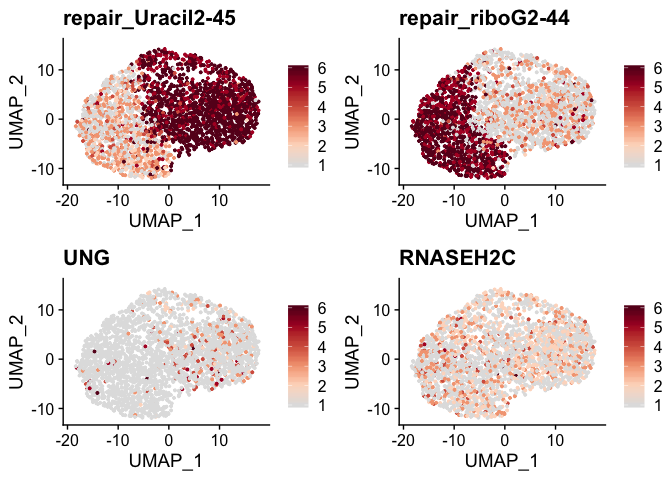
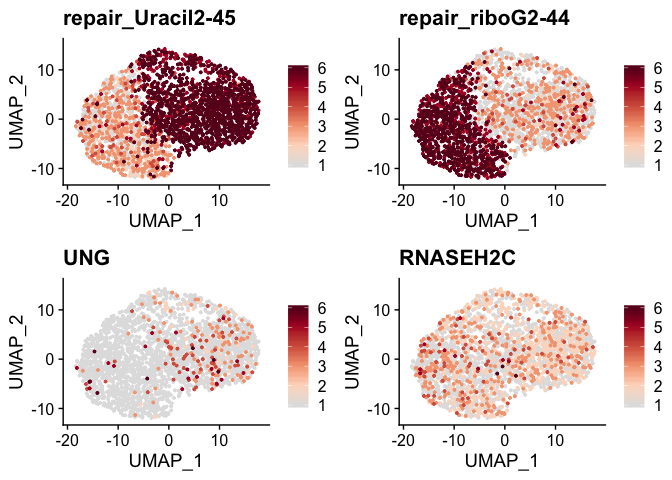
fix readme and add supp fig3

diff --git a/README.md b/README.md
@@ -12,8 +12,8 @@ single-cell mRNA sequencing experiment.
 
 Following GEM generation and reverse transcription, we isolate the DNA
 repair fragments from the mRNA by size separation. We then prepare a
-single-cell repair library that captures DNA repair products,
-intermediates, and products.
+single-cell repair library that captures DNA repair intermediates and
+products.
 
 <center>
 
@@ -91,19 +91,28 @@ df <- rownames_to_column(as.data.frame(t(as.matrix(GetAssayData(barnyard_seurat,
         mutate(position = as.double(position),
                count = as.double(count))
 
-
+# Add repair positions based on average signal
 repair_position = data_frame(hairpin = c('Uracil2', 'riboG2'),
                              repair_position = c(45, 44))
 
 df %>% left_join(repair_position) %>%
         filter(position == repair_position) -> rt
 
+# Get cutoffs to determine cell type by repair
+# Cutoff is > 5% of the maximum signal for each substrate
 rt %>% group_by(hairpin, position) %>%
         summarize(max_count = max(count)) %>%
         mutate(cut_off = round(max_count * .05)) -> cutoffs
 
+# Define ribo cutoff and uracil cutoff
 r = cutoffs$cut_off[1]
 u = cutoffs$cut_off[2]
+
+# Define cell types:
+# UNGKO = >5% maximum singal on ribo substrate and < 5% of the max on uracil substrate
+# RNASEH2CKO = >5% maximum singal on uracil substrate and < 5% of the max on ribo substrate
+# Both = >5% maximum singal on ribo substrate and >5% of the max on uracil substrate
+# Low signal = <5% maximum singal on ribo substrate and <5% of the max on uracil substrate
 
 rt %>% select(-position, -repair_position) %>% 
         spread(hairpin, count) %>%
@@ -116,6 +125,7 @@ rt %>% select(-position, -repair_position) %>%
 df <- left_join(df, color_df) %>%
         left_join(repair_position)
 
+# count number of cells in each category
 df %>% filter(hairpin == "Uracil2", 
                           position == 1) %>%
         group_by(color) %>%
@@ -123,10 +133,7 @@ df %>% filter(hairpin == "Uracil2",
         ungroup() %>%
         rename('Cell Type' = color)-> table
 
-repair_position = tribble(~hairpin, ~repair_position,
-                          "Uracil2", 45,
-                          "riboG2", 44)
-
+# Make barnyard plot
 df %>% filter(position == repair_position) %>%
         select(cell_id, hairpin, color, count) %>%
         spread(hairpin, count) %>% 
@@ -147,11 +154,15 @@ df %>% filter(position == repair_position) %>%
 #### Bulk coverage
 
 ``` r
+# Add celltype to seurat object
 barnyard_seurat$cell_id_from_repair <- color_df$color 
 barnyard_seurat$celltype <- barnyard_seurat$cell_id_from_repair
+
+# Get average hairpin coverage by cell type above defined by repair
 bulk_df = get_hairpin_coverage(barnyard_seurat) %>%
         mutate(count_1000 = count/1000)
 
+# Make coverage plots
 bulk_df %>% filter(hairpin == "Uracil2",
                    celltype %in% c("RNASEH2KO", "UNGKO"),
                    position > 33) %>%
@@ -175,17 +186,19 @@ bulk_df %>% filter(hairpin == "riboG2",
               legend.title = element_blank()) + 
         ggtitle("Ribonucleotide") -> p2
 
-plot_grid(p1, p2)
+plot_grid(p1, p2, nrow = 2)
 ```
 
-![](README_files/figure-gfm/bulk%20plots-1.png)<!-- -->
+<img src="README_files/figure-gfm/bulk plots-1.png" style="display: block; margin: auto;" />
 
 #### mRNA expression vs DNA repair
 
 ``` r
+# Plot mRNA and repair coverage on UMAP plot using seurat functions
+
 FeaturePlot(object = barnyard_seurat, features = c("repair_Uracil2-45", "repair_riboG2-44",
                                                    "UNG", "RNASEH2C"), 
-            reduction = 'umap', cols = loupe_palette)
+            reduction = 'umap', cols = loupe_palette, order = T)
 ```
 
 ![](README_files/figure-gfm/unnamed-chunk-2-1.png)<!-- -->
@@ -198,10 +211,13 @@ The seurat object used below was created
 [here](https://github.com/hesselberthlab/sc-haircut/blob/master/scripts/pbmc_data_inti.R).
 
 ``` r
+# Load PBMC seurat object
 load("../data/pbmc/seurat/pbmc1.seurat.Rdata")
 
 # Filter out platelets from data
 pbmc1 <- subset(pbmc1, subset = celltype != "Platelet")
+
+# Plot UMAP colored by cell type
 DimPlot(pbmc1, reduction = 'umap', group.by = 'celltype', cols = colors)
 ```
 
@@ -210,12 +226,15 @@ DimPlot(pbmc1, reduction = 'umap', group.by = 'celltype', cols = colors)
 #### Measuring DNA repair in PBMC cell types
 
 ``` r
+# Get hairpin coverage by cell type
 df <- get_hairpin_coverage(pbmc1)
 
+# add adduction position for plotting and filter out platelets
 df %>% mutate(adduct_position1 = 44,
                adduct_position2 = -1) %>%
         filter(celltype != "Platelet") -> df
 
+# Make coverage plots
 df %>%
         filter(hairpin == 'Uracil',
                position > 34) %>%
@@ -283,6 +302,8 @@ df %>%
 #### Single cell DNA repair in PBMCs
 
 ``` r
+# Get dataframe of repair position activity values, cell ids, 
+# and cell types from seurat object
 repair.positions = c("Uracil-45", 
                      "riboG-44", 
                      "GU-45", 
@@ -313,16 +334,17 @@ df %>% full_join(repair_labels) %>%
                                    "Abasic repair short-patch",
                                    "Unmodified substrate")) -> df
 
+# Plot activities 
 df %>% filter(repair %in% c("Uracil_45", "GU_45", "riboG_44", "Normal_45")) %>%
         activity_plot() + 
         facet_wrap(~label, ncol = 1, strip.position = "left") 
 ```
 
-![](README_files/figure-gfm/singlecell_repair_PBMC-1.png)<!-- -->
+<img src="README_files/figure-gfm/singlecell_repair_PBMC-1.png" style="display: block; margin: auto;" />
 
 ``` r
 df %>% filter(repair %in% c("Abasic_45", "Abasic_46")) %>%
         activity_plot(lab = label) 
 ```
 
-![](README_files/figure-gfm/singlecell_repair_PBMC-2.png)<!-- -->
+![](README_files/figure-gfm/single-cell-repair-abasic-1.png)<!-- -->
